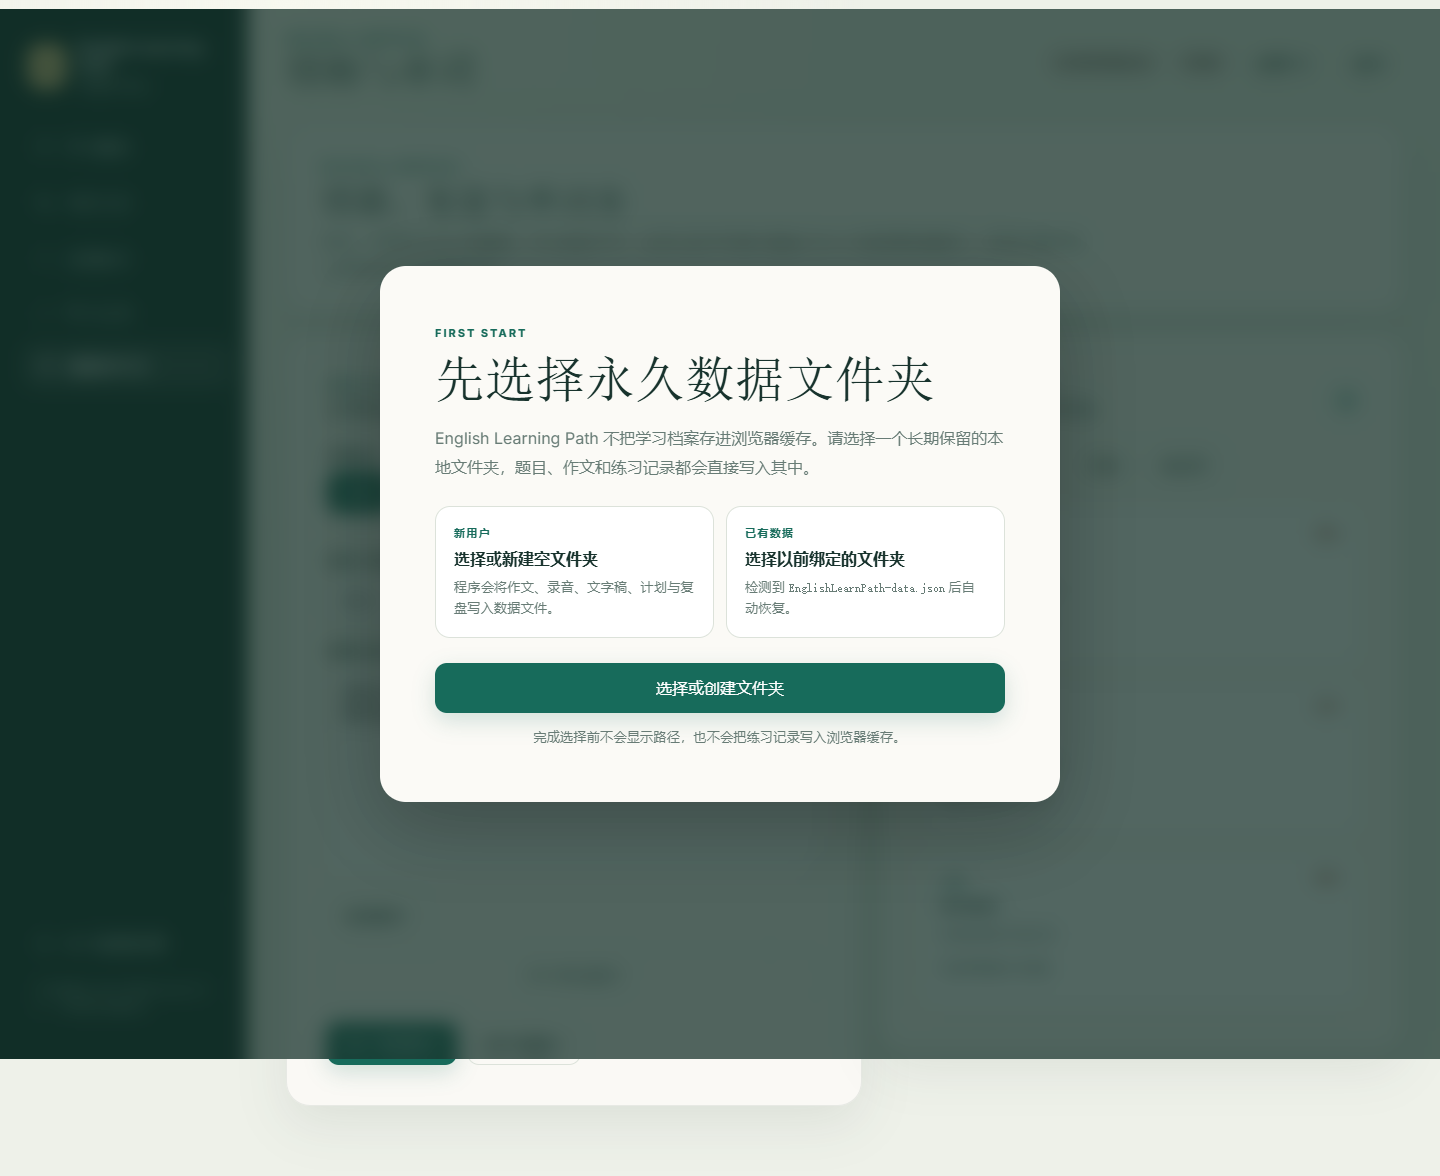
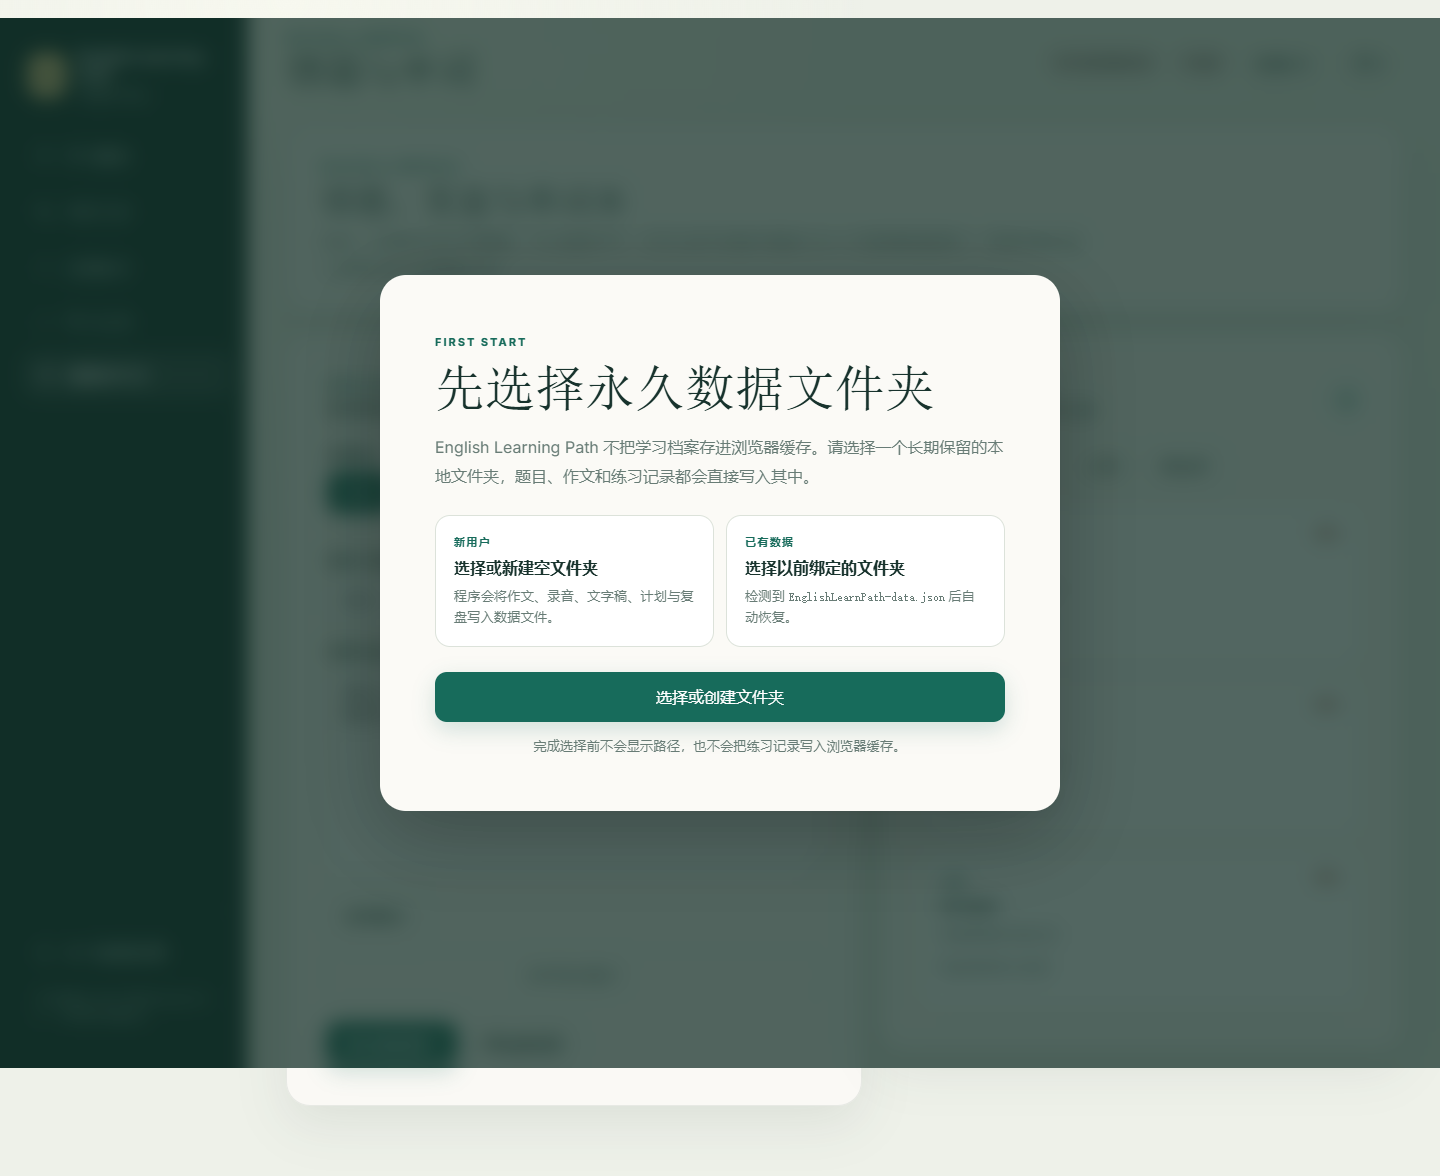
feat: add Windows service stopper

diff --git a/launcher/cmd/stopper/main_windows.go b/launcher/cmd/stopper/main_windows.go
@@ -1,0 +1,43 @@
+//go:build windows
+
+package main
+
+import (
+	"os/exec"
+	"syscall"
+	"unsafe"
+)
+
+const launcherImageName = "启动学习中心.exe"
+
+var messageBoxW = syscall.NewLazyDLL("user32.dll").NewProc("MessageBoxW")
+
+func main() {
+	// Closing the browser tab does not stop the loopback server. Match only the
+	// packaged launcher image, and do not use /T: the browser is not disposable.
+	err := exec.Command("taskkill.exe", "/F", "/IM", launcherImageName).Run()
+	if err != nil {
+		showMessage(
+			"未发现正在运行的学习中心服务，或 Windows 拒绝了结束请求。\n\n如果旧文件夹仍无法删除，请等待几秒后重试；必要时以管理员身份运行本工具。",
+			"English Learning Path",
+			0x30,
+		)
+		return
+	}
+	showMessage(
+		"已结束所有正在运行的 English Learning Path 服务。\n\n现在可以删除或替换旧版本文件夹。你的学习记录保存在此前选择的数据目录中，不会被此操作删除。",
+		"English Learning Path",
+		0x40,
+	)
+}
+
+func showMessage(text, title string, icon uintptr) {
+	textPointer, _ := syscall.UTF16PtrFromString(text)
+	titlePointer, _ := syscall.UTF16PtrFromString(title)
+	messageBoxW.Call(
+		0,
+		uintptr(unsafe.Pointer(textPointer)),
+		uintptr(unsafe.Pointer(titlePointer)),
+		icon,
+	)
+}

diff --git a/launcher/main.go b/launcher/main.go
@@ -88,9 +88,10 @@ type upstreamResponse struct {
 }
 
 var (
-	settings = &configStore{}
-	client   = &http.Client{Timeout: 90 * time.Second}
-	disk     *diskStore
+	settings   = &configStore{}
+	client     = &http.Client{Timeout: 90 * time.Second}
+	disk       *diskStore
+	appVersion = "dev"
 )
 
 func main() {
@@ -144,7 +145,7 @@ func main() {
 
 func registerAPI(mux *http.ServeMux) {
 	mux.HandleFunc("GET /api/app/info", func(w http.ResponseWriter, _ *http.Request) {
-		writeJSON(w, http.StatusOK, map[string]any{"name": "English Learning Path", "version": "0.4.0", "local": true})
+		writeJSON(w, http.StatusOK, map[string]any{"name": "English Learning Path", "version": appVersion, "local": true})
 	})
 	mux.HandleFunc("GET /api/health", func(w http.ResponseWriter, _ *http.Request) {
 		writeJSON(w, http.StatusOK, map[string]any{"ok": true, "app": "EnglishLearnPath"})

diff --git a/launcher/main_test.go b/launcher/main_test.go
@@ -167,4 +167,17 @@ func TestRetiredResourceAPIsAreUnavailable(t *testing.T) {
 	}
 }
 
+func TestAppInfoUsesInjectedBuildVersion(t *testing.T) {
+	previous := appVersion
+	appVersion = "v-test-build"
+	t.Cleanup(func() { appVersion = previous })
+	mux := http.NewServeMux()
+	registerAPI(mux)
+	response := httptest.NewRecorder()
+	mux.ServeHTTP(response, httptest.NewRequest(http.MethodGet, "/api/app/info", nil))
+	if response.Code != http.StatusOK || !strings.Contains(response.Body.String(), `"version":"v-test-build"`) {
+		t.Fatalf("build version missing from app info: %d %s", response.Code, response.Body.String())
+	}
+}
+
 var timeNow = func() time.Time { return time.Now() }

diff --git a/launcher/cmd/stopper/main_other.go b/launcher/cmd/stopper/main_other.go
@@ -1,0 +1,9 @@
+//go:build !windows
+
+package main
+
+import "fmt"
+
+func main() {
+	fmt.Println("结束学习中心工具仅用于 Windows 完整离线包。")
+}

diff --git a/README.md b/README.md
@@ -11,6 +11,8 @@
 3. 完整解压 ZIP；
 4. 双击 `启动学习中心.exe`，程序会在默认浏览器中打开。
 
+关闭浏览器标签页不等于结束本地服务。升级或删除旧版本前，请先在任意一个新版完整包中双击 `结束学习中心.exe`；它会结束所有仍在后台运行的 English Learning Path 启动器，但不会删除你选择的数据目录或学习记录。正常使用时也可以点击页面右上角“退出”。
+
 不需要安装 Node.js、Python、数据库或其他依赖。请不要只下载绿色的 “Code → Download ZIP”，那是开发者源码，不含已经编译好的启动器。
 
 第一次启动时，页面会先要求你**选择或创建一个永久数据文件夹**。完成选择后才会建立并显示主数据文件；程序不会预先显示开发者电脑的路径，也不会退回浏览器缓存。如果选择的是以前用过且包含 `EnglishLearnPath-data.json` 的文件夹，历史记录会自动载入。
@@ -86,7 +88,7 @@
 
 ## 开发与构建
 
-前端位于 `app/`，使用原生 HTML/CSS/JavaScript，无 npm 运行时依赖。`launcher/` 是仅使用 Go 标准库的本地启动器、本地文件存储和 AI 代理。
+前端位于 `app/`，使用原生 HTML/CSS/JavaScript，无 npm 运行时依赖。`launcher/` 是仅使用 Go 标准库的本地启动器、本地文件存储和 AI 代理；完整包还会从 `launcher/cmd/stopper` 构建独立的后台服务结束工具。
 
 开发者运行源码需要 Go 1.22+；构建完整包还需 CMake 与 Visual Studio 2022 C++ 构建工具（GitHub Actions 已提供）：
 

diff --git a/docs/RELEASE_NOTES.md b/docs/RELEASE_NOTES.md
@@ -1,6 +1,12 @@
-# v0.4.2 · DeepSeek 题图识别版
+# v0.4.3 · 后台服务结束工具
 
 ## 本次新增
+
+- 完整包根目录新增 `结束学习中心.exe`。关闭浏览器后如果启动器仍占用旧文件夹，双击该工具即可结束所有仍在运行的 English Learning Path 本地服务，然后删除或替换旧版本目录。
+- 结束工具只匹配产品启动器 `启动学习中心.exe`，不会结束浏览器，也不会删除学习记录、数据目录或 API 配置。
+- 启动器版本信息改为随 Release 标签写入，不再固定显示旧版本号。
+
+## v0.4.2 · DeepSeek 题图识别
 
 - 写作批改现在会把题目图片作为真实多模态输入发送给已配置的兼容 API，不再要求模型根据文字猜图。
 - 使用 DeepSeek 官方地址时，纯文字反馈仍使用已配置的 `deepseek-v4-flash`；一旦本题含图片，该次请求自动切换到 `deepseek-v4-flash-vision-exp`，沿用同一枚 API Key。

diff --git a/AGENTS.md b/AGENTS.md
@@ -32,3 +32,4 @@ When the user corrects an implementation or workflow, fix the current issue and 
 [UI] Keep action groups and media controls visibly separated from adjacent text areas, previews, and helper text at every responsive width.
 [WORKFLOW] Writing and speaking practice records autosave after meaningful edits and after transcription; do not require a separate save button before review or navigation.
 [ARCH] Writing prompt images must be sent to a vision-capable model as real image inputs; never silently reduce an image-based Task 1 review to text-only guessing.
+[WORKFLOW] Windows release packages must include a visible stop-service executable that can end leftover launcher processes before users delete or replace an extracted version.
